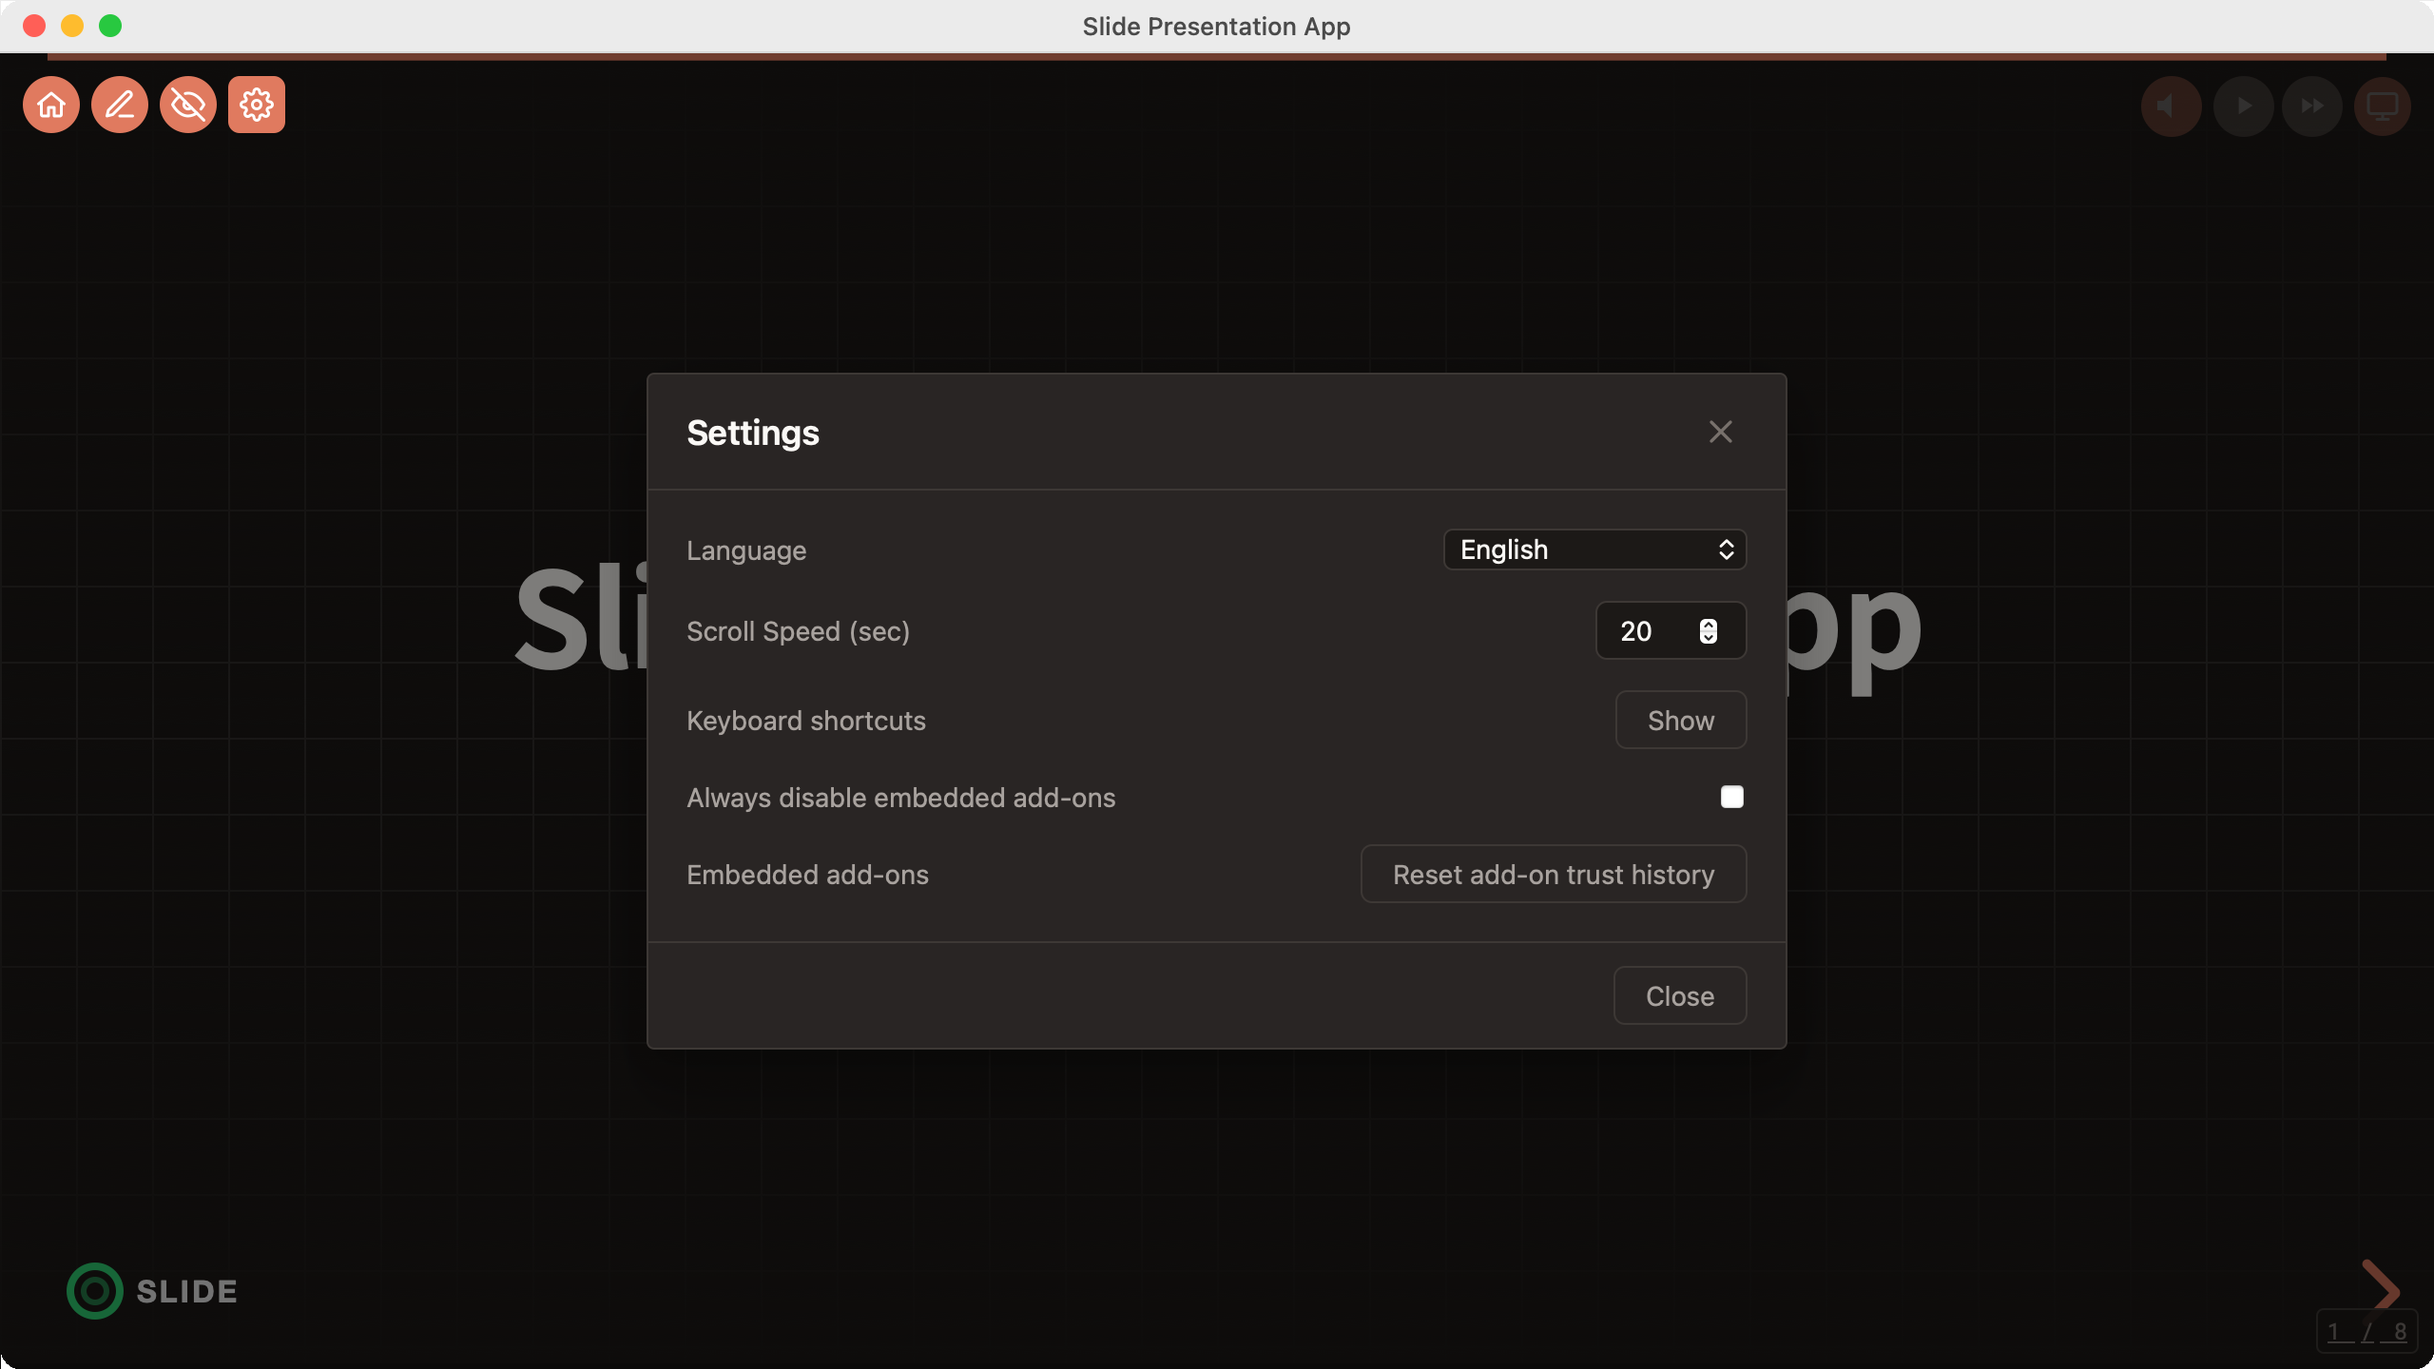
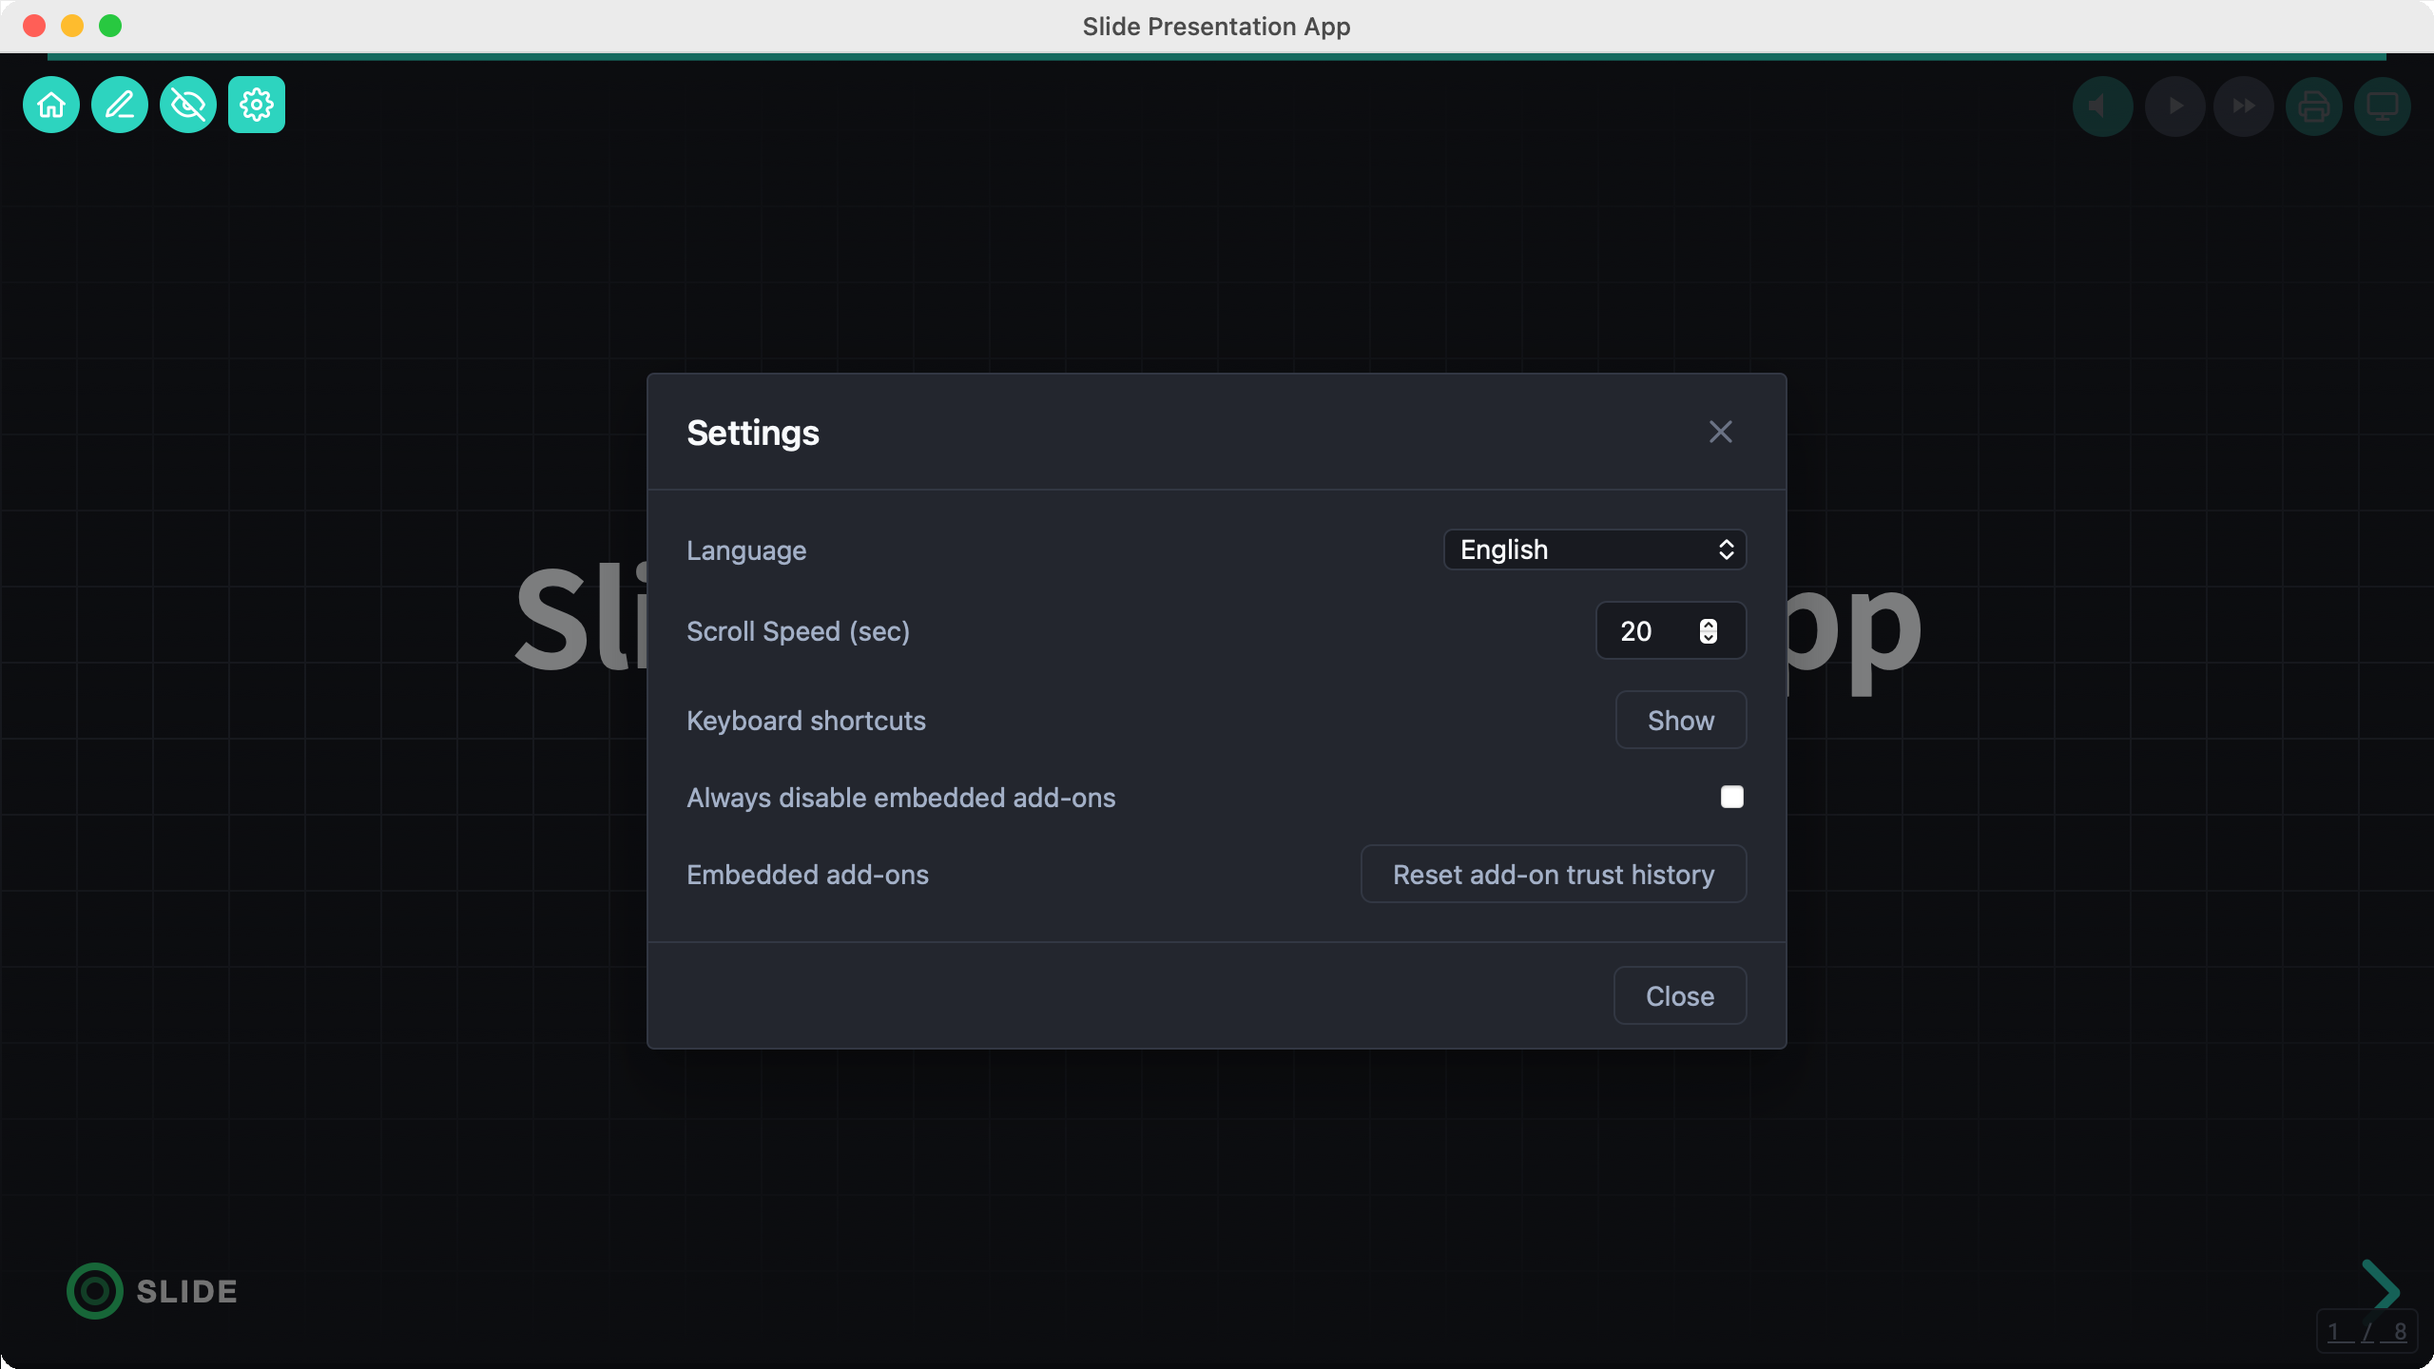
[fix] 編集画面のプレビュー中央寄せ化とUIテーマのロゴ配色への更新 (#148)
* [fix] 編集画面のスライドプレビューが左寄せになる不具合を修正する

スケーラー要素が左上原点で transform: scale() していたため、aspect-ratio の
計算誤差でプレビュー右側/下側に隙間が生じていた。絶対配置 + translate(-50%,-50%)
による中央基準のスケーリングに変更した。

* [update] UIテーマカラーをアプリロゴの配色に合わせて更新する

primary をオレンジ(#e07a5f)からロゴのミントグリーン(#2dd4bf)に、背景・境界線・
テキストの各グレースケールを暖色系(stone)からロゴと同系統の冷色系(slate)に変更した。
コードテキストは既存のオレンジを維持し、primaryのミントと視覚的に区別する。

* [docs] 配色変更に合わせてスクリーンショットを更新する

UIテーマカラーの変更（オレンジ→ロゴ配色のミントグリーン/スレート）に合わせ、
resources/screenshots/{en,ja}/ の全14シナリオを再撮影した。

* [refactoring] previewScaler の冗長な transform-origin 指定を削除する

top: 50%; left: 50% の絶対配置に切り替えたことで transform-origin は
CSSの初期値（center center）と同一になり、明示指定が不要になっていた。

* [fix] パッケージ名の検証ロジックを修正し、アンダースコアの使用を許容する

- `src-tauri/src/lib.rs` および `SlideEditor.tsx` のバリデーションを更新
- ローカライズメッセージ (`en-US.json`, `ja-JP.json`, `fr-FR.json`) を修正
- 自動生成ヒントとエラー表示を `Tooltip` に変更し、UIの崩れを防止
- 新しい検証ケースをテストに追加

* [fix] cargo fmt のフォーマット違反を修正する

パッケージ名検証ロジックの closure 記法が rustfmt の期待形式と不一致で
CI の Rust ジョブ（Format check）が失敗していたため、cargo fmt を適用する。

---------

diff --git a/src/edit/SlideEditor.tsx b/src/edit/SlideEditor.tsx
@@ -4,9 +4,13 @@ import Box from '@mui/material/Box'
 import Button from '@mui/material/Button'
 import Checkbox from '@mui/material/Checkbox'
 import FormControlLabel from '@mui/material/FormControlLabel'
+import InputAdornment from '@mui/material/InputAdornment'
 import Stack from '@mui/material/Stack'
 import TextField from '@mui/material/TextField'
+import Tooltip from '@mui/material/Tooltip'
 import Typography from '@mui/material/Typography'
+import ErrorOutlineIcon from '@mui/icons-material/ErrorOutline'
+import InfoOutlinedIcon from '@mui/icons-material/InfoOutlined'
 import { editorUiTheme, theme } from '../theme'
 import { useTranslation } from '../i18n'
 import { applyTheme, applyThemeData, resetThemeOverrides } from '../applyTheme'
@@ -56,11 +60,12 @@ function slugify(title: string): string {
 }
 
 /** パッケージ名（@slides/{name} の name 部分）を検証する。npm パッケージ名の規則
- * （小文字英数字とハイフンのみ・先頭は英数字）に合わせる（src-tauri/src/lib.rs の validate_package_name と同一規則・#88） */
+ * （小文字英数字・ハイフン・アンダースコアのみ・先頭は英数字。先頭の `_`/`.` は npm で予約的な意味を持つため不可）
+ * に合わせる（src-tauri/src/lib.rs の validate_package_name と同一規則・#88） */
 function validatePackageName(value: string): 'required' | 'invalid' | null {
   const trimmed = value.trim()
   if (!trimmed) return 'required'
-  return /^[a-z0-9][a-z0-9-]*$/.test(trimmed) ? null : 'invalid'
+  return /^[a-z0-9][a-z0-9_-]*$/.test(trimmed) ? null : 'invalid'
 }
 
 /** バージョンを検証する（semver の major.minor.patch。prerelease/build metadata も許可・#88） */
@@ -233,7 +238,7 @@ export function SlideEditor({
     nameErrorCode === 'required'
       ? t('edit.packageNameRequired', 'パッケージ名を入力してください')
       : nameErrorCode === 'invalid'
-        ? t('edit.packageNameInvalid', 'パッケージ名は小文字英数字とハイフンのみ使用でき、先頭は英数字にしてください')
+        ? t('edit.packageNameInvalid', 'パッケージ名は小文字英数字・ハイフン・アンダースコアのみ使用でき、先頭は英数字にしてください')
         : null
   const versionErrorCode = validateVersion(version)
   const versionErrorMessage =
@@ -363,6 +368,9 @@ export function SlideEditor({
             {t('edit.exit', '編集を終了')}
           </Button>
           <Box sx={{ flex: 1 }} />
+          {/* 注意事項（エラー/自動生成ヒント）は helperText ではなくアイコン+Tooltip で出す。
+              helperText はフィールド分だけツールバーの高さを伸ばし、下段の固定高さレイアウト（42%指定）と
+              予算が合わず画面全体の崩れを招くため（ツールバーの高さは常に一定に保つ） */}
           <TextField
             label={t('edit.packageName', 'パッケージ名')}
             value={name}
@@ -373,7 +381,22 @@ export function SlideEditor({
             size="small"
             sx={{ width: 180 }}
             error={nameErrorMessage !== null}
-            helperText={nameErrorMessage ?? (nameIsAuto ? t('edit.packageNameHint', 'スライドタイトルから自動生成された値です。書き出し前に確認・修正してください') : '')}
+            slotProps={{
+              input: {
+                endAdornment:
+                  nameErrorMessage || nameIsAuto ? (
+                    <InputAdornment position="end">
+                      <Tooltip title={nameErrorMessage ?? t('edit.packageNameHint', 'スライドタイトルから自動生成された値です。書き出し前に確認・修正してください')}>
+                        {nameErrorMessage ? (
+                          <ErrorOutlineIcon fontSize="small" color="error" titleAccess={nameErrorMessage} />
+                        ) : (
+                          <InfoOutlinedIcon fontSize="small" sx={{ color: 'var(--fixed-text-muted)' }} titleAccess={t('edit.packageNameHint', 'スライドタイトルから自動生成された値です。書き出し前に確認・修正してください')} />
+                        )}
+                      </Tooltip>
+                    </InputAdornment>
+                  ) : undefined,
+              },
+            }}
           />
           <TextField label={t('edit.version', 'バージョン')} value={version} onChange={(e) => setVersion(e.target.value)} size="small" sx={{ width: 110 }} error={versionErrorMessage !== null} helperText={versionErrorMessage ?? ''} />
           <Button variant="outlined" size="small" onClick={handleSave} disabled={!canWrite}>
@@ -538,7 +561,18 @@ export function SlideEditor({
                   </Button>
                 </Stack>
                 <Box sx={{ flex: 1, minHeight: 0, display: 'flex', alignItems: 'center', justifyContent: 'center' }}>
-                  <Box sx={{ width: '100%', aspectRatio: '16 / 9', maxHeight: '100%', border: '1px solid var(--fixed-border)', borderRadius: 1, overflow: 'hidden', backgroundColor: 'var(--fixed-background-alt)' }}>
+                  <Box
+                    sx={{
+                      width: '100%',
+                      aspectRatio: '16 / 9',
+                      maxHeight: '100%',
+                      position: 'relative',
+                      border: '1px solid var(--fixed-border)',
+                      borderRadius: 1,
+                      overflow: 'hidden',
+                      backgroundColor: 'var(--fixed-background-alt)',
+                    }}
+                  >
                     {currentSlide ? (
                       // プレビューだけはプレゼン用テーマ（スライド本来のフォントサイズ）で描画する。編集 chrome は editorUiTheme のまま
                       <ThemeProvider theme={theme}>

diff --git a/src/styles/global.css b/src/styles/global.css
@@ -1,17 +1,17 @@
 /* CSS variable fallbacks (overridden at runtime by applyTheme) */
 :root {
-  --theme-primary: #e07a5f;
-  --theme-primary-rgb: 224, 122, 95;
-  --theme-background: #1c1917;
-  --theme-background-rgb: 28, 25, 23;
-  --theme-background-alt: #292524;
-  --theme-background-grid: #33302e;
-  --theme-text-heading: #faf8f5;
-  --theme-text-body: #a8a29e;
-  --theme-text-subtitle: #d6d3d1;
-  --theme-text-muted: #78716c;
-  --theme-border: #3d3835;
-  --theme-border-light: #4a4543;
+  --theme-primary: #2dd4bf;
+  --theme-primary-rgb: 45, 212, 191;
+  --theme-background: #181a20;
+  --theme-background-rgb: 24, 26, 32;
+  --theme-background-alt: #23262e;
+  --theme-background-grid: #2f333d;
+  --theme-text-heading: #f8fafc;
+  --theme-text-body: #a3b0c7;
+  --theme-text-subtitle: #c7cede;
+  --theme-text-muted: #6b7385;
+  --theme-border: #323743;
+  --theme-border-light: #454b5a;
   --theme-success: #4ade80;
   --theme-code-text: #fb923c;
 
@@ -31,13 +31,13 @@
   --theme-font-size-body2: 16px;
 
   /* 固定パレット（applyTheme が上書きしない。プレゼンのテーマ変更から独立させたいUI chrome用。editorUiTheme(src/theme.ts) と揃える） */
-  --fixed-primary: #e07a5f;
-  --fixed-background: #1c1917;
-  --fixed-background-alt: #292524;
-  --fixed-text-heading: #faf8f5;
-  --fixed-text-body: #a8a29e;
-  --fixed-text-muted: #78716c;
-  --fixed-border: #3d3835;
+  --fixed-primary: #2dd4bf;
+  --fixed-background: #181a20;
+  --fixed-background-alt: #23262e;
+  --fixed-text-heading: #f8fafc;
+  --fixed-text-body: #a3b0c7;
+  --fixed-text-muted: #6b7385;
+  --fixed-border: #323743;
   --fixed-font-family: -apple-system, BlinkMacSystemFont, 'Segoe UI', Roboto, 'Helvetica Neue', Arial, sans-serif;
   --fixed-success: #4ade80;
   --fixed-font-code: 'Roboto Mono', monospace;

diff --git a/src/theme.ts b/src/theme.ts
@@ -3,14 +3,14 @@ import { createTheme } from '@mui/material/styles'
 export const theme = createTheme({
   palette: {
     mode: 'dark',
-    primary: { main: '#e07a5f' },
+    primary: { main: '#2dd4bf' },
     background: {
-      default: '#1c1917',
-      paper: '#292524',
+      default: '#181a20',
+      paper: '#23262e',
     },
     text: {
-      primary: '#faf8f5',
-      secondary: '#a8a29e',
+      primary: '#f8fafc',
+      secondary: '#a3b0c7',
     },
   },
   typography: {
@@ -96,14 +96,14 @@ export const theme = createTheme({
 export const editorUiTheme = createTheme({
   palette: {
     mode: 'dark',
-    primary: { main: '#e07a5f' },
+    primary: { main: '#2dd4bf' },
     background: {
-      default: '#1c1917',
-      paper: '#292524',
+      default: '#181a20',
+      paper: '#23262e',
     },
     text: {
-      primary: '#faf8f5',
-      secondary: '#a8a29e',
+      primary: '#f8fafc',
+      secondary: '#a3b0c7',
     },
   },
   typography: {

diff --git a/src/edit/SlidePreview.tsx b/src/edit/SlidePreview.tsx
@@ -31,7 +31,7 @@ export function SlidePreview({ slide }: { slide: SlideData }) {
   }, [])
 
   return (
-    <div ref={containerRef} className={styles.previewScaler} style={{ transform: `scale(${scale})` }}>
+    <div ref={containerRef} className={styles.previewScaler} style={{ transform: `translate(-50%, -50%) scale(${scale})` }}>
       <div className={`reveal ${styles.previewReveal}`}>
         <div className="slides">
           <SlideRenderer.Slide slide={slide} />

diff --git a/src/edit/SlidePreview.module.css b/src/edit/SlidePreview.module.css
@@ -1,7 +1,9 @@
 .previewScaler {
   width: 1280px;
   height: 720px;
-  transform-origin: top left;
+  position: absolute;
+  top: 50%;
+  left: 50%;
   pointer-events: none;
 }
 

diff --git a/src-tauri/src/lib.rs b/src-tauri/src/lib.rs
@@ -630,20 +630,21 @@ fn filter_addon_manifest(
 }
 
 /// export 用パッケージ名（package.json の `@slides/{name}` に埋め込む name 部分）を検証する。
-/// npm パッケージ名の規則（小文字英数字とハイフンのみ・先頭は英数字）に合わせる
-/// （sanitize_addon_name と防御方針は同じだが、npm パッケージ名として埋め込むため大文字・アンダースコアは許可しない・#88）
+/// npm パッケージ名の規則（小文字英数字・ハイフン・アンダースコアのみ・先頭は英数字）に合わせる。
+/// 先頭の `_`/`.` は npm で予約的な意味を持つため不可（sanitize_addon_name と防御方針は同じだが、
+/// npm パッケージ名として埋め込むため大文字は許可しない・#88）
 fn validate_package_name(name: &str) -> Result<(), String> {
   let trimmed = name.trim();
   if trimmed.is_empty() {
     return Err("パッケージ名を入力してください".to_string());
   }
-  let valid = trimmed
-    .chars()
-    .enumerate()
-    .all(|(i, c)| c.is_ascii_lowercase() || c.is_ascii_digit() || (i > 0 && c == '-'));
+  let valid = trimmed.chars().enumerate().all(|(i, c)| {
+    c.is_ascii_lowercase() || c.is_ascii_digit() || (i > 0 && (c == '-' || c == '_'))
+  });
   if !valid {
     return Err(
-      "パッケージ名は小文字英数字とハイフンのみ使用でき、先頭は英数字にしてください".to_string(),
+      "パッケージ名は小文字英数字・ハイフン・アンダースコアのみ使用でき、先頭は英数字にしてください"
+        .to_string(),
     );
   }
   Ok(())
@@ -1299,6 +1300,22 @@ mod tests {
   fn validate_package_name_accepts_lowercase_alnum_and_hyphens() {
     assert!(validate_package_name("demo").is_ok());
     assert!(validate_package_name("my-slides-2").is_ok());
+  }
+
+  #[test]
+  fn validate_package_name_accepts_underscore_except_leading() {
+    assert!(
+      validate_package_name("my_slides").is_ok(),
+      "先頭以外のアンダースコアは可"
+    );
+    assert!(
+      validate_package_name("my_slides_2").is_ok(),
+      "末尾のアンダースコアも可"
+    );
+    assert!(
+      validate_package_name("_slides").is_err(),
+      "先頭のアンダースコアは npm で予約的な意味を持つため不可"
+    );
   }
 
   #[test]
